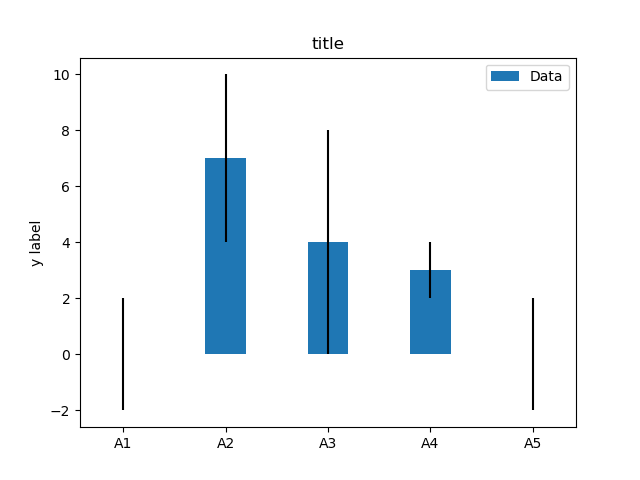
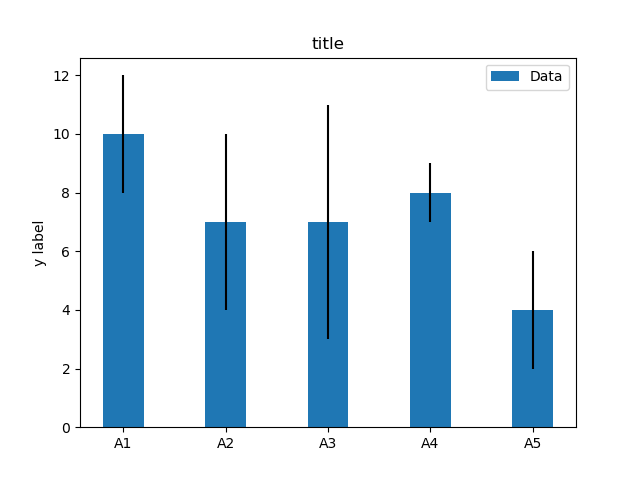
first commit

diff --git a/example.py b/example.py
@@ -2,7 +2,7 @@ import numpy as np
 import matplotlib.pyplot as plt
 
 labels = ['A1', 'A2', 'A3', 'A4', 'A5']
-m_means = [0,7,4,3,0]
+m_means = [10,7,7,8,4]
 m_std = [2, 3, 4, 1, 2]
 width = 0.40       # the width of the bars
 

diff --git a/README.md b/README.md
@@ -1,4 +1,4 @@
-# Matplotlib no 233 
+# Matplotlib no 234 
 
 python example
 
